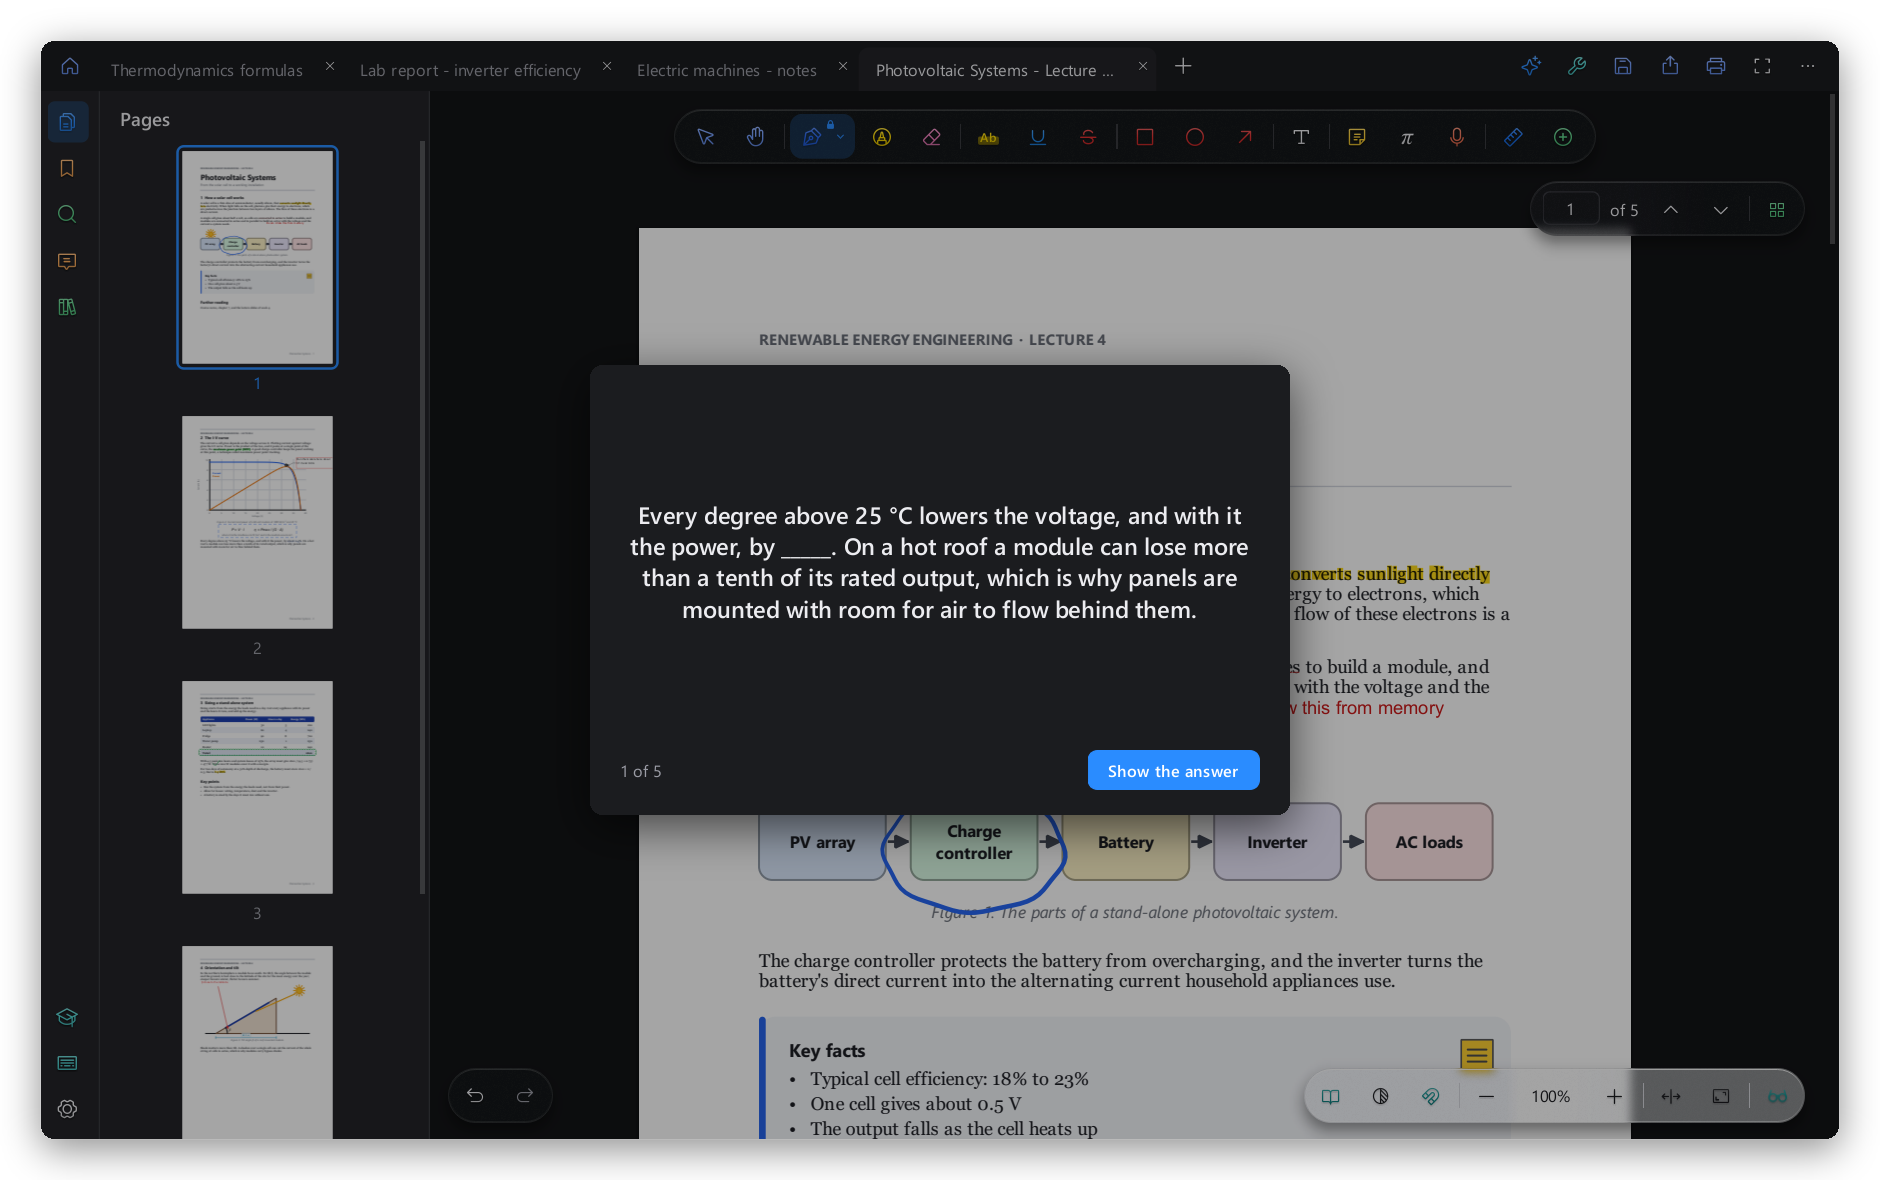
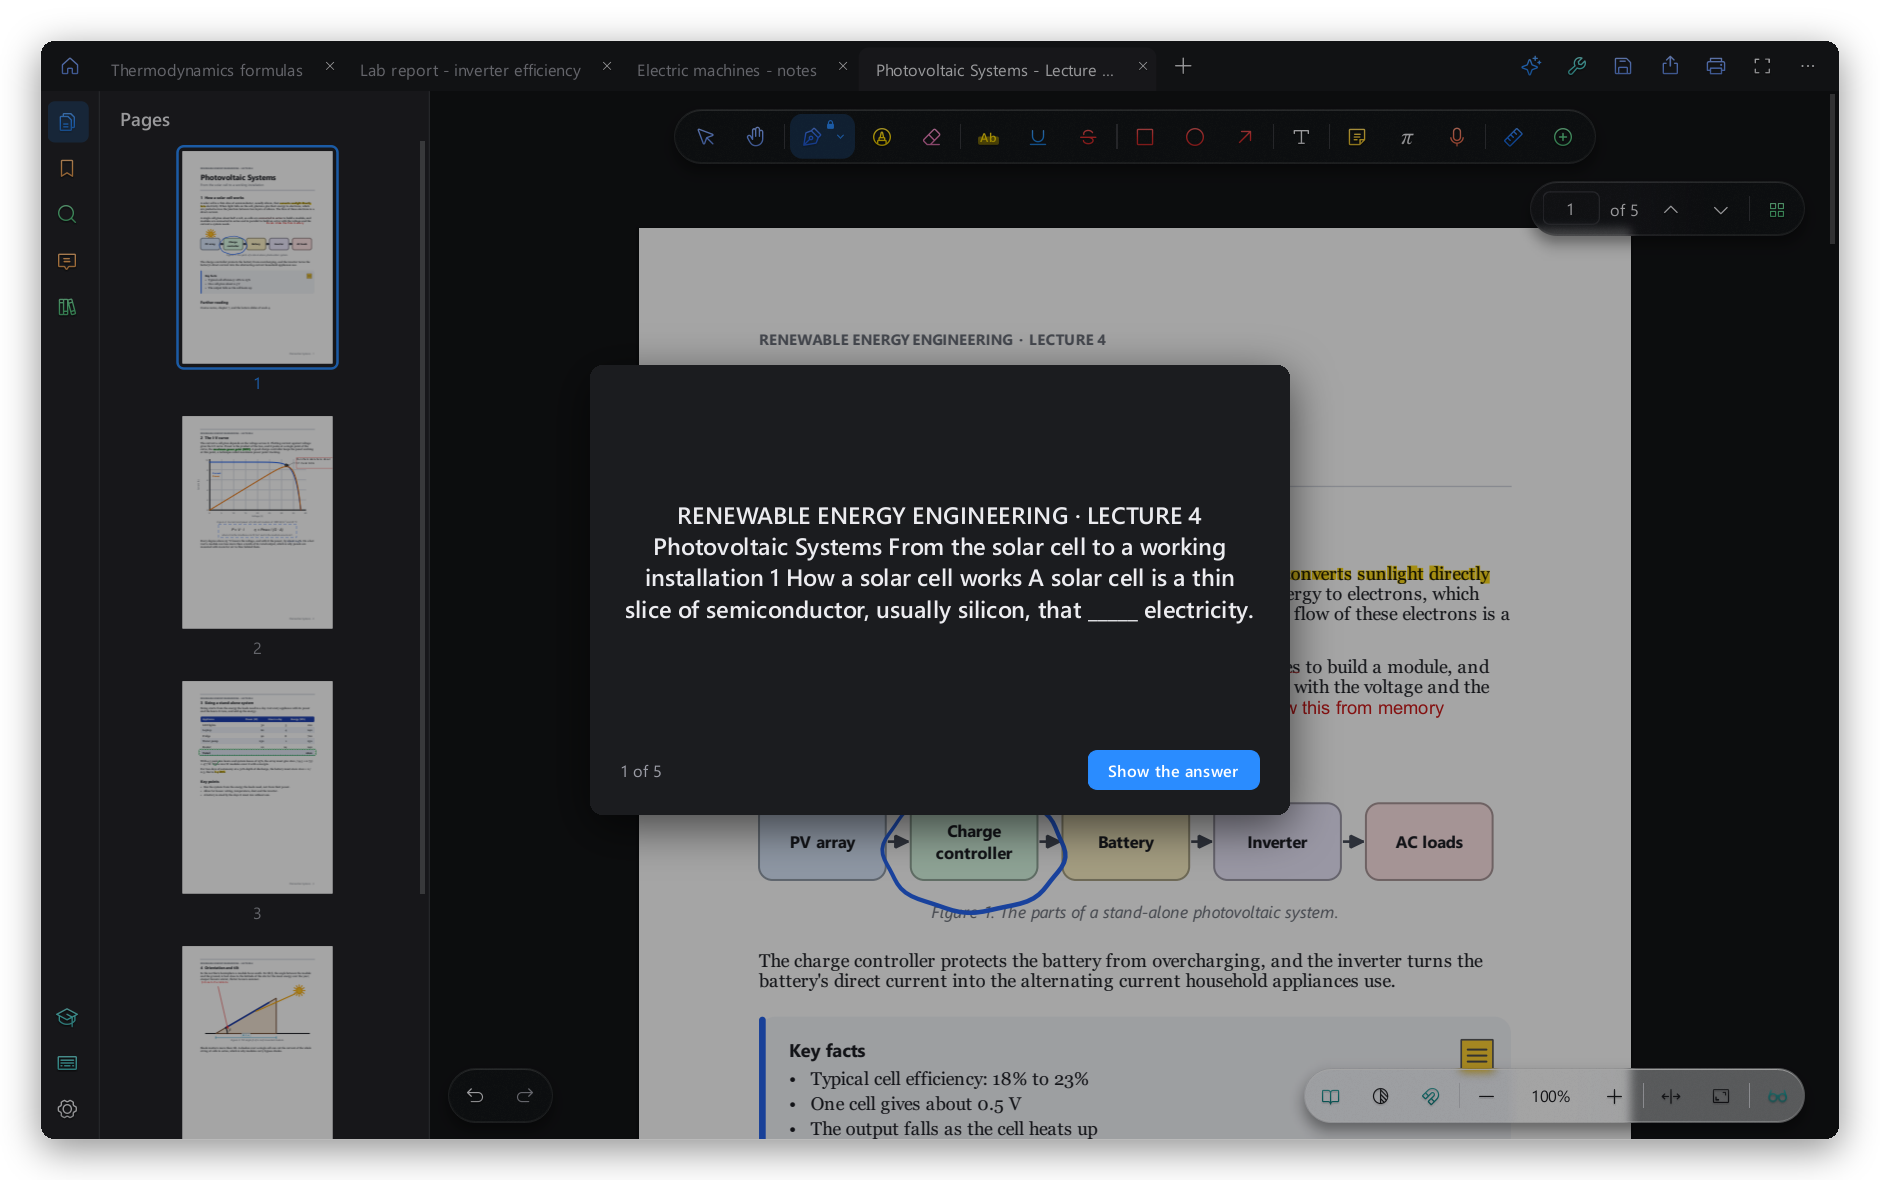
README all in English, with the languages as badges

Changed region(s): [[0.3394, 0.4271, 0.6787, 0.5492]]

diff --git a/tools/screenshots.py b/tools/screenshots.py
@@ -31,7 +31,7 @@ from PIL import Image, ImageChops, ImageDraw, ImageFilter
 from PySide6.QtCore import QMarginsF, QPoint, QPointF, QRectF, QSettings, Qt
 from PySide6.QtGui import QColor, QFont, QImage, QPageSize, QPainter, QPainterPath, QPdfWriter, QPen, QPolygonF
 from PySide6.QtTest import QTest
-from PySide6.QtWidgets import QApplication
+from PySide6.QtWidgets import QApplication, QComboBox
 
 ROOT = Path(__file__).resolve().parents[1]
 sys.path.insert(0, str(ROOT / "src"))
@@ -41,12 +41,10 @@ from zenith_pdf.core import audio  # noqa: E402
 from zenith_pdf.core.annotations import (Attachment, FreeText, Ink, Line, Measurement, Note, Shape,  # noqa: E402
                                          Tape, TextMarkup)
 from zenith_pdf.core.document import Document  # noqa: E402
-from zenith_pdf.core.i18n import set_language  # noqa: E402
 from zenith_pdf.settings import Settings  # noqa: E402
 from zenith_pdf.ui import writing_dialogs  # noqa: E402
 from zenith_pdf.ui.compare import CompareWindow  # noqa: E402
 from zenith_pdf.ui.flashcards import FlashcardsDialog, StudyDialog  # noqa: E402
-from zenith_pdf.ui.settings_page import SettingsWindow  # noqa: E402
 
 W, H = 595.0, 842.0  # A4 in points
 LEFT, RIGHT = 72.0, 72.0
@@ -748,17 +746,17 @@ def main() -> None:
     save(to_pil(comparing.grab()), out, "compare.png", True)
     comparing.close()
 
-    settings.set("language", "it")
-    set_language("it")  # a window made now speaks Italian
-    italian = SettingsWindow(settings, window.tool_settings, window)
-    italian.resize(1100, 760)
-    italian.show()
-    italian.show_category("view")
+    settings_window = window.settings_window()  # the languages to choose from, the list open
+    settings_window.resize(1100, 760)
+    settings_window.show()
+    settings_window.show_category("view")
     settle(400)
-    save(to_pil(italian.grab()), out, "settings-italian.png", True)
-    italian.close()
-    set_language("en")
-    settings.set("language", "auto")
+    languages = next(box for box in settings_window.findChildren(QComboBox) if box.findData("it") >= 0)
+    languages.showPopup()
+    settle(400)
+    save(with_popups(settings_window, [languages.view().window()]), out, "settings-language.png", True)
+    languages.hidePopup()
+    settings_window.hide()
 
     for index in reversed(range(len(window.workspaces))):
         window.close_tab(index, confirm=False)

diff --git a/README.md b/README.md
@@ -23,13 +23,18 @@ In continuous development: new versions come out often.
 
 [![Build](https://github.com/andrealo20/Zenith-PDF/actions/workflows/build.yml/badge.svg)](https://github.com/andrealo20/Zenith-PDF/actions/workflows/build.yml)
 ![Windows, macOS, Linux](https://img.shields.io/badge/runs_on-Windows%20%7C%20macOS%20%7C%20Linux-555?style=flat-square)
-![Version 0.5.0](https://img.shields.io/badge/version-0.5.0-2E8BFF?style=flat-square)
+![Version 0.5.1](https://img.shields.io/badge/version-0.5.1-2E8BFF?style=flat-square)
 ![Free and open source](https://img.shields.io/badge/free-open_source-2EA44F?style=flat-square)
 ![In continuous development](https://img.shields.io/badge/development-active-2EA44F?style=flat-square)
 ![License GPL-3.0-or-later](https://img.shields.io/badge/license-GPL--3.0--or--later-blue?style=flat-square)
-![Tests](https://img.shields.io/badge/tests-538%20passing-2EA44F?style=flat-square&logo=pytest&logoColor=white)
+![Tests](https://img.shields.io/badge/tests-554%20passing-2EA44F?style=flat-square&logo=pytest&logoColor=white)
 ![Works offline](https://img.shields.io/badge/works-offline-6E40C9?style=flat-square)
-![Six languages](https://img.shields.io/badge/languages-EN%20%7C%20IT%20%7C%20FR%20%7C%20ES%20%7C%20DE%20%7C%20PT-E3A008?style=flat-square)
+![English](https://img.shields.io/badge/language-English-E3A008?style=flat-square)
+![Italian](https://img.shields.io/badge/language-Italian-E3A008?style=flat-square)
+![French](https://img.shields.io/badge/language-French-E3A008?style=flat-square)
+![Spanish](https://img.shields.io/badge/language-Spanish-E3A008?style=flat-square)
+![German](https://img.shields.io/badge/language-German-E3A008?style=flat-square)
+![Portuguese](https://img.shields.io/badge/language-Portuguese-E3A008?style=flat-square)
 
 ![Python 3.11+](https://img.shields.io/badge/Python-3.11%2B-3776AB?style=flat-square&logo=python&logoColor=white)
 ![Qt 6 with PySide6](https://img.shields.io/badge/Qt%206-PySide6-41CD52?style=flat-square&logo=qt&logoColor=white)
@@ -133,7 +138,7 @@ bars, the panels and the tabs away, and brings them back as they were.
 Menus, settings, help and the whole guide in English, Italian, French, Spanish, German or Portuguese. Zenith
 PDF speaks the system's language when it knows it; Settings > View & Layout picks another one.
 
-<img src="docs/images/settings-italian.png" alt="Settings in Italian, with the language chosen in View and Layout" width="100%">
+<img src="docs/images/settings-language.png" alt="Settings, View and Layout: the list of languages, open" width="100%">
 
 ### Flashcards, and two versions side by side
 
@@ -167,8 +172,9 @@ GPL. It is in continuous development, and each version lists its changes on the
 [releases page](https://github.com/andrealo20/Zenith-PDF/releases).
 
 **Windows.** Download [Zenith-PDF-Setup.exe](https://github.com/andrealo20/Zenith-PDF/releases/latest/download/Zenith-PDF-Setup.exe) and run
-it. The installer asks where to put Zenith PDF and whether you want a desktop shortcut, then adds it to the
-Start menu and to Open with for PDF files. It uninstalls from Settings > Apps, like any other app. While the
+it. The installer asks where to put Zenith PDF, whether you want a desktop shortcut and whether it should
+open your PDF files, then adds it to the Start menu and to Open with. Windows lets no program make itself the
+default: for that, its Default apps settings open at Zenith PDF, and Set default there finishes it. It uninstalls from Settings > Apps, like any other app. While the
 installer is not signed yet, SmartScreen may say it protected your PC: choose More info, then Run anyway.
 
 **macOS.** Open [Zenith-PDF-macOS.dmg](https://github.com/andrealo20/Zenith-PDF/releases/latest/download/Zenith-PDF-macOS.dmg) and drag
@@ -355,6 +361,10 @@ every change, and publishes them with each new version.
   fingerprints that installs when Zenith PDF closes. After each update a short
   tour shows what changed
 - One copy at a time: opening a PDF while Zenith PDF runs adds a tab to it
+- The default PDF reader, if you want: offered by the Windows installer and
+  the first time Zenith PDF starts, and in Settings > Files & Saving. Windows
+  confirms it in its own settings; macOS (Launch Services) and Linux
+  (xdg-mime) take it at once
 
 ## Keyboard shortcuts
 
@@ -411,7 +421,7 @@ On a Mac, Ctrl is ⌘ and Alt is ⌥, and three keys move because macOS keeps th
 | Search in every PDF | SQLite's full-text index (FTS5), kept on the computer |
 | Comparing versions | the words of both versions, lined up with Python's difflib |
 | Updates | GitHub's releases API; each download checked against the release's SHA256SUMS |
-| Tests | pytest on Qt's offscreen platform: 538 tests, run on Windows, macOS and Linux |
+| Tests | pytest on Qt's offscreen platform: 554 tests, run on Windows, macOS and Linux |
 | Downloads | PyInstaller, then an NSIS installer, a .dmg or an AppImage (`tools/build.py`), built by GitHub Actions |
 
 ```
